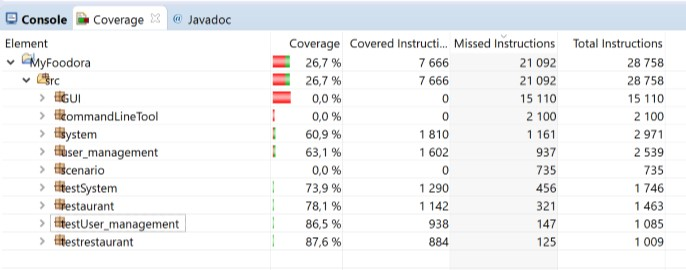
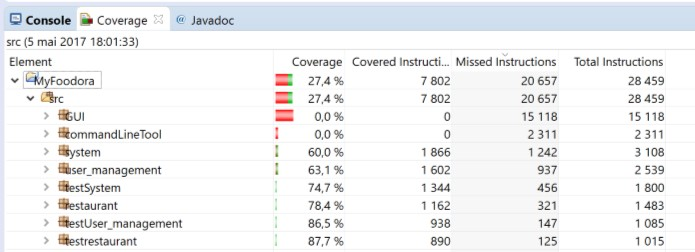
modification report: delete of scenario

diff --git a/report/src/junit.tex b/report/src/junit.tex
@@ -17,11 +17,10 @@ Furthermore, all the tests have been distributed so that those which test the sa
 	\item{\textbf{test\_Usermanagement}} Contains all the tests of the \textit{user\_management} package.
 \end{itemize}
 Each package holds classes, and each of them contains the tests of one class. For instance, the class called \textit{TestMyFoodora} in the package \textit{testSystem} holds all the tests of the class \textit{MyFoodora}.  
-Note that there is no test for the packages \textit{commandLineTool}, \textit{GUI} and \textit{scenario}. The reasons are as follows:
+Note that there is no test for the packages \textit{commandLineTool} and \textit{GUI}. The reasons are as follows:
 \begin{itemize}
 	\item{\textit{commandLineTool}} package contains the Command-Line User Interface. It is not possible to test it with JUnit-Tests because running it needs to input command lines in the console. Nevertheless, it can be tested thanks to the command line "runtest" which runs an input file or a default file if no input file is given.
 	\item{\textit{GUI}} package contains the Graphical User Interface. We did not find a way to test it other than doing it by hand by using the mouse.
-	\item{\textit{scenario}} package contains scenarios which test the software.
 \end{itemize}
 
 \subsection{Problems solved}
@@ -60,8 +59,8 @@ In order to know how much of the program had been tested by the JUnit-Tests, we 
 \end{figure}
 As illustrated in the figure, the first column of the chart shows the coverage percentage of the code which is tested by the JUnit-Tests. One can notice that:
 \begin{itemize}
-	\item{} The packages \textit{GUI}, \textit{commandLineTool} and \textit{scenario} are not tested (see explication \ref{sub:test_organisation}).
-	\item{} The total coverage is just 26.7\% because the packages \textit{GUI}, \textit{commandLineTool} and \textit{scenario} represent more than half of the code.
+	\item{} The packages \textit{GUI} and \textit{commandLineTool} are not tested (see explication \ref{sub:test_organisation}).
+	\item{} The total coverage is just 27.4\% because the packages \textit{GUI} and \textit{commandLineTool}  represent more than half of the code.
 	\item{} All of the packages \textit{user\_management}, \textit{system} and \textit{restaurant} are tested at more than 60\% (even 78\% for \textit{restaurant}). Actually, the plugin takes into account the getters and setters which are not necessarily used during the tests, which means that the core of the classes are tested at more than 60\%.
 	\item{} The packages \textit{testSystem}, \textit{testUser\_management} and \textit{testRestaurant} are not fully tested because the tests contain \textit{catch} blocks which are not executed while running them.
 \end{itemize}
